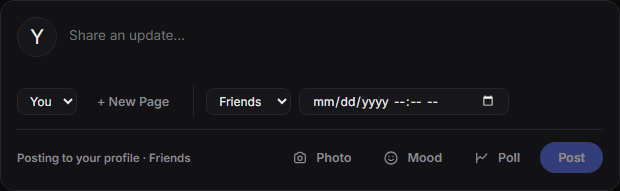
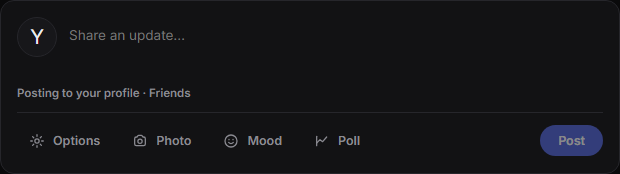
feat(composer): disclose advanced options on demand (reconcile compaction)

diff --git a/packages/ui/src/FeedView.tsx b/packages/ui/src/FeedView.tsx
@@ -9,6 +9,7 @@ import {
   CubeIcon,
   ForwardIcon,
   FullscreenIcon,
+  GearIcon,
   HomeIcon,
   MenuIcon,
   MessageIcon,
@@ -3980,6 +3981,8 @@ export function FeedView({
   );
   const [attachments, setAttachments] = useState<ComposerAttachment[]>([]);
   const [moodOpen, setMoodOpen] = useState(false);
+  /** Advanced composer options (destination, audience, schedule) are hidden until asked for. */
+  const [optionsOpen, setOptionsOpen] = useState(false);
   const [audience, setAudience] = useState<"public" | "friends" | "only_me">("friends");
   const [scheduledAt, setScheduledAt] = useState("");
   const [album, setAlbum] = useState("");
@@ -4773,60 +4776,74 @@ export function FeedView({
               onChange={(event) => setAlbum(event.target.value)}
             />
           )}
-          {/* Compaction: destination, audience and schedule share one horizontal
-              row instead of stacking, so the composer stays short. */}
-          <div className="feed-composer-as">
-            <select aria-label="Post as" value={postAs} onChange={(event) => setPostAs(event.target.value)}>
-              <option value="">You</option>
-              {pages.map((page) => (
-                <option key={page.id} value={page.id}>
-                  {page.name}
-                </option>
-              ))}
-            </select>
-            {creatingPage ? (
-              <>
+          {/* Compaction: advanced options stay hidden until asked for, so the
+              composer defaults to two rows. */}
+          {optionsOpen && (
+            <div id="feed-composer-options" className="feed-composer-options">
+              <div className="feed-composer-as">
+                <span>Post as</span>
+                <select
+                  aria-label="Post as"
+                  value={postAs}
+                  onChange={(event) => setPostAs(event.target.value)}
+                >
+                  <option value="">You</option>
+                  {pages.map((page) => (
+                    <option key={page.id} value={page.id}>
+                      {page.name}
+                    </option>
+                  ))}
+                </select>
+                {creatingPage ? (
+                  <>
+                    <input
+                      className="feed-composer-as-input"
+                      placeholder="New Page name"
+                      value={newPageName}
+                      autoFocus
+                      onChange={(event) => setNewPageName(event.target.value)}
+                      onKeyDown={(event) => {
+                        if (event.key === "Enter") {
+                          event.preventDefault();
+                          void createPage();
+                        }
+                      }}
+                    />
+                    <button type="button" className="feed-composer-tool" onClick={() => void createPage()}>
+                      Create
+                    </button>
+                  </>
+                ) : (
+                  <button type="button" className="feed-composer-tool" onClick={() => setCreatingPage(true)}>
+                    + New Page
+                  </button>
+                )}
+              </div>
+              <div className="feed-composer-as">
+                <span>Audience</span>
+                <select
+                  aria-label="Audience"
+                  value={audience}
+                  onChange={(event) => setAudience(event.target.value as "public" | "friends" | "only_me")}
+                >
+                  <option value="public">Public</option>
+                  <option value="friends">Friends</option>
+                  <option value="only_me">Only me</option>
+                </select>
+              </div>
+              <div className="feed-composer-as">
+                <span>Schedule</span>
                 <input
+                  type="datetime-local"
                   className="feed-composer-as-input"
-                  placeholder="New Page name"
-                  value={newPageName}
-                  autoFocus
-                  onChange={(event) => setNewPageName(event.target.value)}
-                  onKeyDown={(event) => {
-                    if (event.key === "Enter") {
-                      event.preventDefault();
-                      void createPage();
-                    }
-                  }}
+                  value={scheduledAt}
+                  onChange={(event) => setScheduledAt(event.target.value)}
+                  title="Schedule for later"
+                  aria-label="Schedule for later"
                 />
-                <button type="button" className="feed-composer-tool" onClick={() => void createPage()}>
-                  Create
-                </button>
-              </>
-            ) : (
-              <button type="button" className="feed-composer-tool" onClick={() => setCreatingPage(true)}>
-                + New Page
-              </button>
-            )}
-            <span className="feed-composer-divider" aria-hidden="true" />
-            <select
-              aria-label="Audience"
-              value={audience}
-              onChange={(event) => setAudience(event.target.value as "public" | "friends" | "only_me")}
-            >
-              <option value="public">Public</option>
-              <option value="friends">Friends</option>
-              <option value="only_me">Only me</option>
-            </select>
-            <input
-              type="datetime-local"
-              className="feed-composer-as-input feed-composer-schedule"
-              value={scheduledAt}
-              onChange={(event) => setScheduledAt(event.target.value)}
-              title="Schedule for later"
-              aria-label="Schedule for later"
-            />
-          </div>
+              </div>
+            </div>
+          )}
           {pollOpen && (
             <div className="feed-poll-editor">
               {pollOptions.map((option, index) => (
@@ -4883,14 +4900,23 @@ export function FeedView({
               {notice}
             </div>
           )}
+          <span className="feed-composer-destination">
+            {postAs
+              ? `Posting as ${pages.find((page) => page.id === postAs)?.name ?? "Page"}`
+              : "Posting to your profile"}
+            {" · "}
+            {audience === "public" ? "Public" : audience === "only_me" ? "Only me" : "Friends"}
+          </span>
           <div className="feed-composer-actions">
-            <span className="feed-composer-destination">
-              {postAs
-                ? `Posting as ${pages.find((page) => page.id === postAs)?.name ?? "Page"}`
-                : "Posting to your profile"}
-              {" · "}
-              {audience === "public" ? "Public" : audience === "only_me" ? "Only me" : "Friends"}
-            </span>
+            <button
+              type="button"
+              className={`feed-composer-tool${optionsOpen ? " active" : ""}`}
+              aria-expanded={optionsOpen}
+              aria-controls="feed-composer-options"
+              onClick={() => setOptionsOpen((value) => !value)}
+            >
+              <GearIcon size={16} /> Options
+            </button>
             <button type="button" className="feed-composer-tool" onClick={() => fileRef.current?.click()}>
               <CameraIcon size={16} /> Photo
             </button>

diff --git a/packages/ui/src/composer.dom.test.tsx b/packages/ui/src/composer.dom.test.tsx
@@ -220,6 +220,7 @@ describe("Composer publish lifecycle", () => {
     await screen.findByText("existing post");
 
     fireEvent.change(screen.getByLabelText("Post text"), { target: { value: "later" } });
+    fireEvent.click(screen.getByRole("button", { name: "Options" }));
     const when = container.querySelector<HTMLInputElement>('input[type="datetime-local"]');
     expect(when).toBeTruthy();
     fireEvent.change(when!, { target: { value: "2020-01-01T10:00" } });
@@ -237,6 +238,7 @@ describe("Composer publish lifecycle", () => {
     await screen.findByText("existing post");
 
     fireEvent.change(screen.getByLabelText("Post text"), { target: { value: "from the brand" } });
+    fireEvent.click(screen.getByRole("button", { name: "Options" }));
     fireEvent.change(screen.getByRole("combobox", { name: "Post as" }), {
       target: { value: page.id },
     });
@@ -251,18 +253,22 @@ describe("Composer publish lifecycle", () => {
   });
 });
 
-describe("Composer layout compaction", () => {
-  it("keeps destination and audience controls on a single horizontal row", async () => {
-    const { container } = renderFeed(makeClient());
+describe("Composer advanced options", () => {
+  it("hides destination, audience and schedule until Options is opened", async () => {
+    renderFeed(makeClient());
     await screen.findByText("existing post");
 
-    const postAs = screen.getByRole("combobox", { name: "Post as" });
-    const audience = screen.getByRole("combobox", { name: "Audience" });
-    const row = postAs.closest(".feed-composer-as");
-    expect(row).toBeTruthy();
-    // Both selects live in the same row (was two stacked rows).
-    expect(row).toBe(audience.closest(".feed-composer-as"));
-    expect(container.querySelectorAll(".feed-composer-as")).toHaveLength(1);
+    // Collapsed: the controls are gone, but the summary still shows the target.
+    expect(screen.queryByRole("combobox", { name: "Post as" })).toBeNull();
+    expect(screen.queryByRole("combobox", { name: "Audience" })).toBeNull();
+    expect(document.querySelector('input[type="datetime-local"]')).toBeNull();
+    expect(screen.getByText(/Posting to your profile/)).toBeTruthy();
+
+    // Revealed on demand.
+    fireEvent.click(screen.getByRole("button", { name: "Options" }));
+    expect(screen.getByRole("combobox", { name: "Post as" })).toBeTruthy();
+    expect(screen.getByRole("combobox", { name: "Audience" })).toBeTruthy();
+    expect(document.querySelector('input[type="datetime-local"]')).toBeTruthy();
   });
 });
 

diff --git a/packages/ui/src/FeedView.dom.test.tsx b/packages/ui/src/FeedView.dom.test.tsx
@@ -224,6 +224,7 @@ describe("FeedView action hierarchy", () => {
   it("gives the composer controls accessible names (FEED-9)", async () => {
     render(<FeedView client={makeClient([makePost()])} cloudUrl="http://cloud" viewerId="viewer-1" />);
     await screen.findByText("A quiet feed is a happy feed.");
+    fireEvent.click(screen.getByRole("button", { name: "Options" }));
     expect(screen.getByRole("combobox", { name: "Post as" })).toBeTruthy();
     expect(screen.getByRole("combobox", { name: "Audience" })).toBeTruthy();
   });
@@ -1543,9 +1544,7 @@ describe("Post interactions", () => {
       />,
     );
     await screen.findByText("A quiet feed is a happy feed.");
-    await waitFor(() =>
-      expect(container.querySelector("article.feed-post.feed-post-focus")).toBeTruthy(),
-    );
+    await waitFor(() => expect(container.querySelector("article.feed-post.feed-post-focus")).toBeTruthy());
   });
 
   it("opens a person profile from an @mention (POST-14)", async () => {

diff --git a/packages/ui/src/styles.css b/packages/ui/src/styles.css
@@ -9230,19 +9230,13 @@ body {
   color: var(--muted);
 }
 
-/* Separator between the destination and audience groups in the compact row. */
-.feed-composer-divider {
-  align-self: stretch;
-  width: 1px;
-  min-height: 18px;
-  margin: 0 var(--space-1);
-  background: var(--border);
-}
-
-/* Keep the schedule picker to its natural width so the meta row stays one line. */
-.feed-composer-schedule {
-  flex: 0 0 auto;
-  max-width: 210px;
+/* Advanced composer options (destination / audience / schedule) are disclosed on demand. */
+.feed-composer-options {
+  display: flex;
+  flex-direction: column;
+  gap: var(--space-2);
+  padding: var(--space-2) 0;
+  border-top: 1px dashed var(--border);
 }
 
 .feed-composer-as select {
@@ -10326,8 +10320,6 @@ a.feed-follow-btn {
 
 /* Composer reliability surfaces (docs/composer-implementation-plan.md) */
 .feed-composer-destination {
-  flex: 1 1 140px;
-  min-width: 0;
   font-size: var(--text-xs);
   font-weight: 600;
   color: var(--muted);

diff --git a/e2e/composer.spec.ts b/e2e/composer.spec.ts
@@ -61,6 +61,7 @@ test.describe("Composer publish journey", () => {
 
   test("refuses a past schedule instead of posting immediately", async ({ page }) => {
     await page.getByLabel("Post text").fill("e2e schedule guard");
+    await page.getByRole("button", { name: "Options", exact: true }).click();
     await page.locator('input[type="datetime-local"]').fill("2020-01-01T10:00");
     await page.getByRole("button", { name: "Schedule" }).click();
 

diff --git a/docs/composer-implementation-plan.md b/docs/composer-implementation-plan.md
@@ -121,10 +121,13 @@
   and is not duplicated; the E2E publish test checks the action bar.
 
 ### W18 — Composer horizontal compaction (fourth pass) · Done
-- The **Post as** and **Audience + schedule** rows are merged into a single
-  horizontal row (`.feed-composer-as` with a `.feed-composer-divider`), reducing
-  the composer from four stacked rows to three. Delegated by the Feed Experience
-  Lead (`docs/feed-page-redesign-report.md`).
+- Delegated by the Feed Experience Lead (`docs/feed-page-redesign-report.md`).
+  The initial merge folded destination/audience/schedule into one row; the final
+  reconciled design (adopting the concurrent `agent/feed-composer-ux` work)
+  instead hides them behind an **Options** disclosure so the composer defaults to
+  two rows, with the destination summary always visible. `Options` is a
+  `GearIcon` toggle with `aria-expanded`/`aria-controls`; the schedule gets its
+  own labelled row inside the panel.
 
 ### Backlog
 - Collapsed composer state (further than compaction); `listScheduled` management

diff --git a/docs/agent-progress/composer-manager.md b/docs/agent-progress/composer-manager.md
@@ -105,8 +105,10 @@ several accessibility gaps. See the audit for the ranked list.
 - [x] W16 Byte-accurate upload progress (XHR).
 - [x] W17 Newly published posts render through the card (dedupe + tests).
 - [x] W18 **Composer horizontal compaction** — destination, audience and schedule
-  share one row (delegated by the Feed Experience Lead in
-  `docs/feed-page-redesign-report.md`).
+  sit behind an **Options** disclosure (composer defaults to two rows), with the
+  destination summary always visible. Delegated by the Feed Experience Lead
+  (`docs/feed-page-redesign-report.md`); final design reconciled with the
+  concurrent `agent/feed-composer-ux` workstream.
 
 Previously "blocked" items are now implemented; see the second-pass notes below.
 
